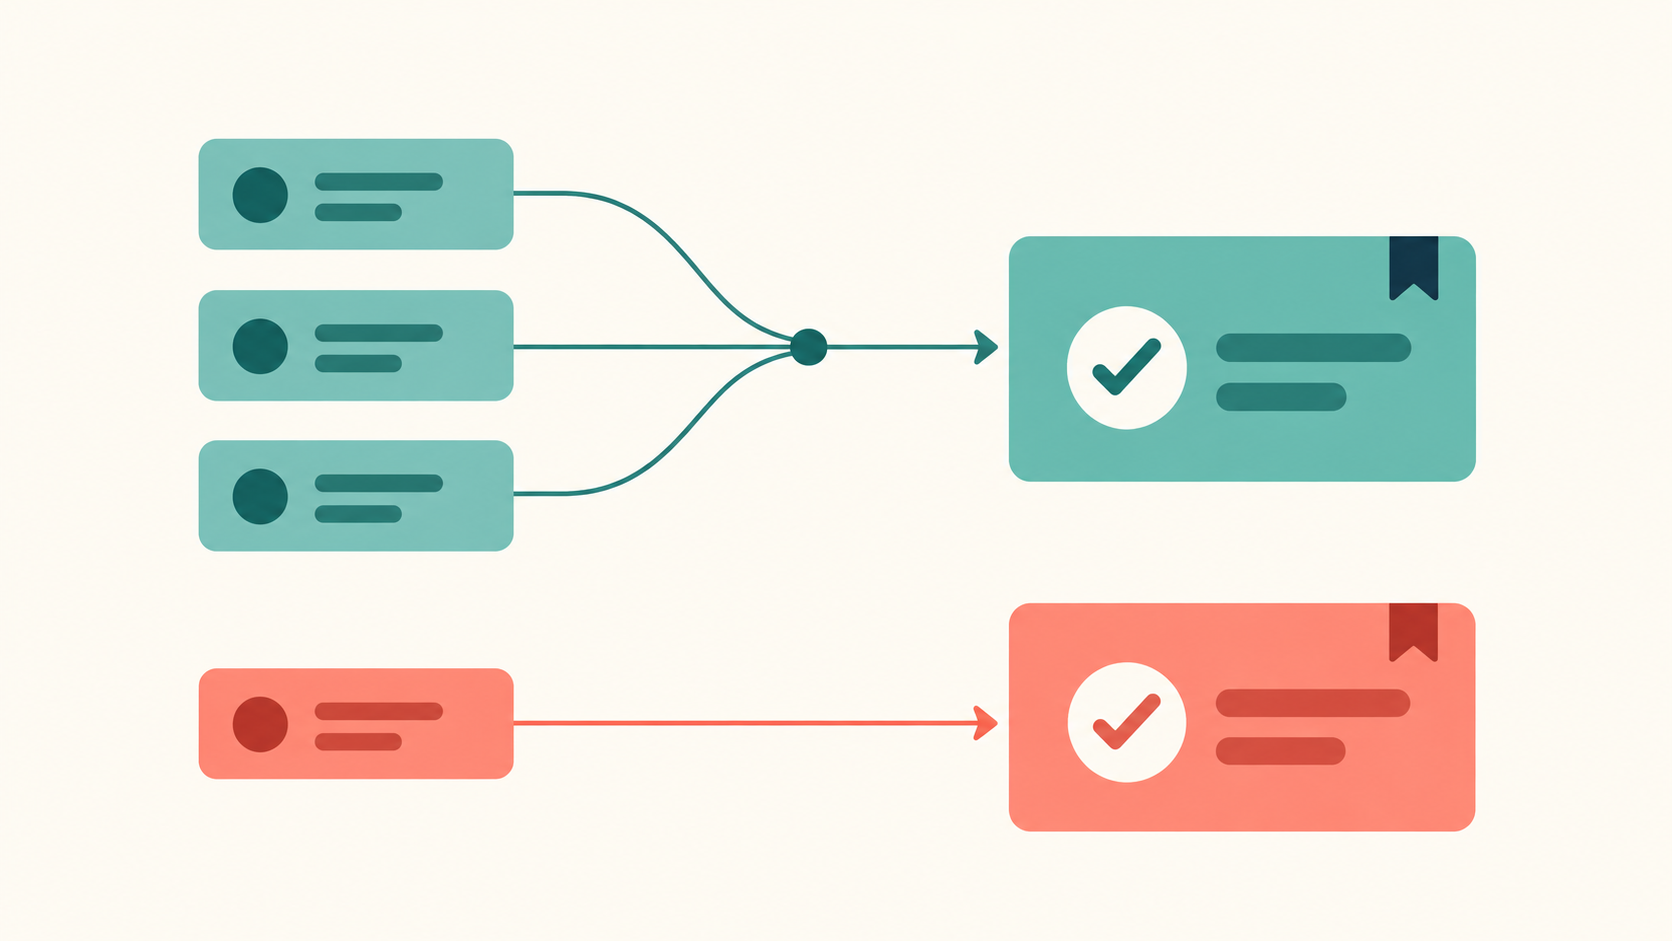
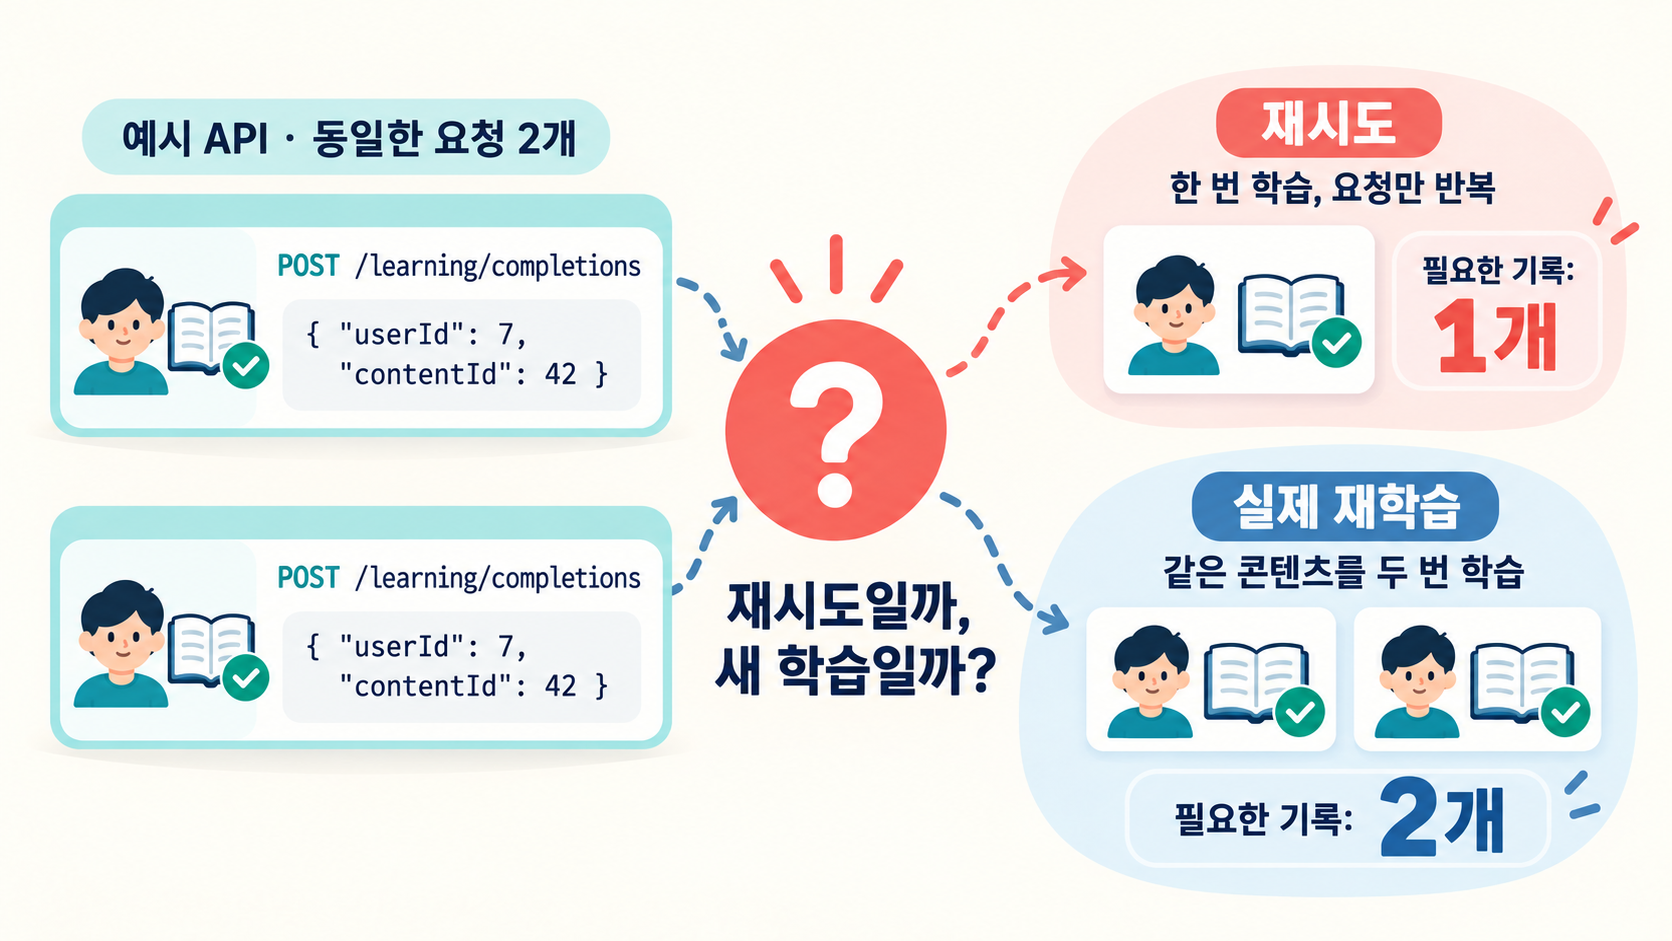
블로그 상단 이미지에 문제 상황 명시

diff --git a/posts/api-idempotency-boundaries.md b/posts/api-idempotency-boundaries.md
@@ -9,7 +9,7 @@ tags:
   - Idempotency
 ---
 
-![같은 학습 시도의 반복 요청은 하나의 완료 기록으로 모이고 새 학습은 별도 기록으로 남는 2D 일러스트](https://raw.githubusercontent.com/yw7148/blog.youngwon.me-content/main/images/api-idempotency-boundaries-hero.png)
+![같은 userId와 contentId로 POST /learning/completions를 두 번 호출해도 재시도라면 학습 기록 1개, 실제 재학습이라면 2개가 필요해 요청만으로는 구분할 수 없는 상황](https://raw.githubusercontent.com/yw7148/blog.youngwon.me-content/main/images/api-idempotency-boundaries-hero.png)
 
 `Idempotency` `State Transition` `Operation ID` `Optimistic Locking` `Domain Invariant`
 

diff --git a/posts/transaction-boundaries-and-events.md b/posts/transaction-boundaries-and-events.md
@@ -10,7 +10,7 @@ tags:
   - Event-Driven Architecture
 ---
 
-![분리된 두 트랜잭션 경계 사이에서 주문 데이터와 이벤트가 서로 다른 영역에 놓인 모습](https://raw.githubusercontent.com/yw7148/blog.youngwon.me-content/main/images/transaction-boundaries-hero.png)
+![Transaction A의 주문 연결 전에 REQUIRES_NEW로 분리된 Transaction B에서 SubscriptionCreatedEvent를 발행하고 BEFORE_COMMIT 리스너가 주문을 조회해 null을 받는 흐름](https://raw.githubusercontent.com/yw7148/blog.youngwon.me-content/main/images/transaction-boundaries-hero.png)
 
 `Spring Transaction` `REQUIRES_NEW` `TransactionalEventListener` `Data Visibility` `Domain Event`
 

diff --git a/posts/realtime-ranking-with-snapshot.md b/posts/realtime-ranking-with-snapshot.md
@@ -10,7 +10,7 @@ tags:
   - Ranking
 ---
 
-![랭킹 목록에서 사용자의 행이 최신 점수에 맞는 위치로 올라가는 2D 일러스트](https://raw.githubusercontent.com/yw7148/blog.youngwon.me-content/main/images/realtime-ranking-hero.png)
+![점수가 계속 바뀌는 랭킹 화면 옆에서 점수 갱신과 순위 조회 요청이 DB에 몰려 대기하는 모습](https://raw.githubusercontent.com/yw7148/blog.youngwon.me-content/main/images/realtime-ranking-hero.png)
 
 `System Design` `Database Index` `Snapshot` `Score Bucketing` `Eventual Consistency`
 
